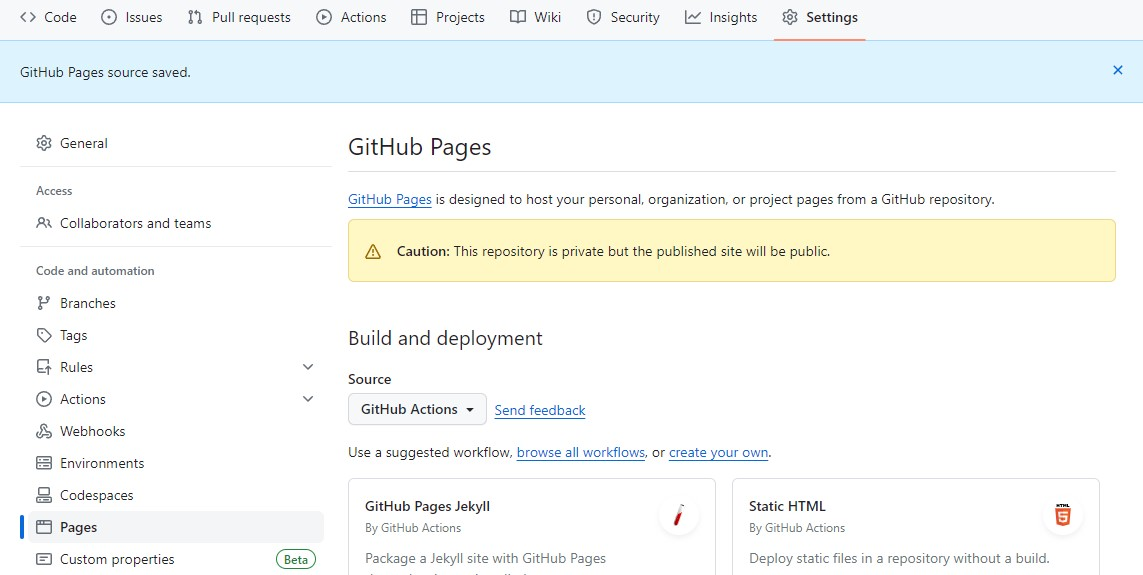
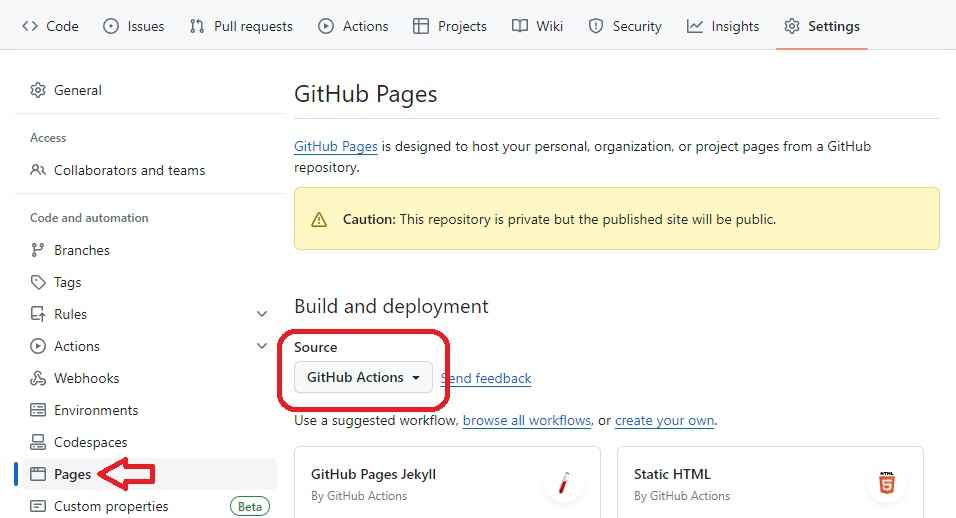
finished assignment readme

diff --git a/Assignment-1/README.md b/Assignment-1/README.md
@@ -17,15 +17,17 @@ You can try a [finished version of the game](https://csci-4611-spring-2024.githu
 
 We are using GitHub classroom for submission of programming assignments.  This system will create a new private repository with template code that is only accessible by you, the instructor, and the TAs.  You will need to create a GitHub.com account if you do not already have one.  Note that this is different from the University's github.umn.edu account.
 
-**Step 1:** Create your private repository using the following link:
+**Step 1:** Create your private repository using the following link: TO BE ADDED
 
-LINK TO BE ADDED
+**Step 2:** Your repository will be added to the [GitHub course organization](https://github.com/CSCI-4611-Spring-2024).  You will need to open your repository on GitHub, then go to Settings->Pages and change the build and deployment source to `GitHub Actions`, as shown in the image below.  You **must** complete this step or you will not be able to to deploy the finished assignment.
 
-**Step 2:** Your repository will be created in the [course GitHub organization](https://github.com/CSCI-4611-Spring-2024).  You will need to open your repository on GitHub and go to Settings->Pages, then change the Source to the `GitHub Actions`, as shown in the image below.  You must complete this step or you will not be able to build and deploy your project to GitHub pages!
+**Step 3:** Check out the code to your local machine. If you are not familiar with using `git ` from the command line, then I recommend using a GUI such as [GitHub Desktop](https://desktop.github.com/) or [GitKraken](https://www.gitkraken.com/). 
+
+
 
 ![GitHub screenshot](./images/github.jpg)
 
-**Step 3:** Check out the code to your local machine. If you are not familiar with using `git ` from the command line, then I recommend using a GUI such as [GitHub Desktop](https://desktop.github.com/) or [GitKraken](https://www.gitkraken.com/). 
+
 
 ## Prerequisites
 
@@ -92,19 +94,7 @@ This assignment is divided into seven parts.  The provided starter code implemen
 
 #### Part 7: Build and Deploy
 
-- Build and deploy your project to GitHub Pages using the steps described below (1).
-
-## Build Instructions
-
-TO BE ADDED: INSTRUCTIONS
-
-You may need to wait a minute for the website to deploy.  After that, make sure to test everything by pointing your web browser at the link generated for your build:
-
-```
-https://csci-4611-spring-2024.github.io/your-repo-name-here
-```
-
-If your program runs correctly, then you are finished! Note that the published JavaScript bundle code generated by the TypeScript compiler has been obfuscated so that it is not human-readable. So, you can feel free to send this link to other students, friends, and family to show off your work!
+- Build and deploy your project to GitHub Pages using the steps described below. (1)
 
 ## Wizard Bonus Challenge
 
@@ -116,9 +106,27 @@ A single point may not sound like a lot, but keep in mind that on a 20-point sca
 
 The wizard bonus challenge also offers you a chance to show off your skills and creativity!  While grading the assignments the TAs will identify the best four or five examples of people doing cool stuff with computer graphics. We call these students our **wizards**, and after each assignment, the students selected as wizards will have their programs demonstrated to the class.
 
+## Building and Deploying to GitHub Pages
+
+When you have finished the assignment, you will need to run the following command to generate a build:
+
+```
+npm run build
+```
+
+This compiles your TypeScript program into a JavaScript bundle that will be placed in the `dist` folder. To complete your submission, you should commit the contents of the `dist` folder and then push to GitHub. This will trigger a server-side workflow that will automatically deploy your build as a website on GitHub pages. Note that you may need to wait a minute or two for the deployment to become active.
+
+Make sure to test everything by pointing your web browser at the GitHub pages URL for your repository:
+
+```
+https://csci-4611-spring-2024.github.io/your-repo-name-here
+```
+
+If your program runs correctly, then you are finished! Note that the published JavaScript bundle code generated by the TypeScript compiler has been obfuscated so that it is not human-readable. So, you can feel free to send this link to other students, friends, and family to show off your work!
+
 ## Acknowledgments
 
-The ship graphics were from the Kenney [Space Shooter Redux](https://www.kenney.nl/assets/space-shooter-redux) and [Simple Space](https://www.kenney.nl/assets/simple-space) asset packages.
+The ship graphics were from the Kenney [Space Shooter Redux](https://www.kenney.nl/assets/space-shooter-redux) and [Simple Space](https://www.kenney.nl/assets/simple-space) asset packages. The laser sound effect was obtained from [ZapSplat](https://www.zapsplat.com/).
 
 ## License
 
